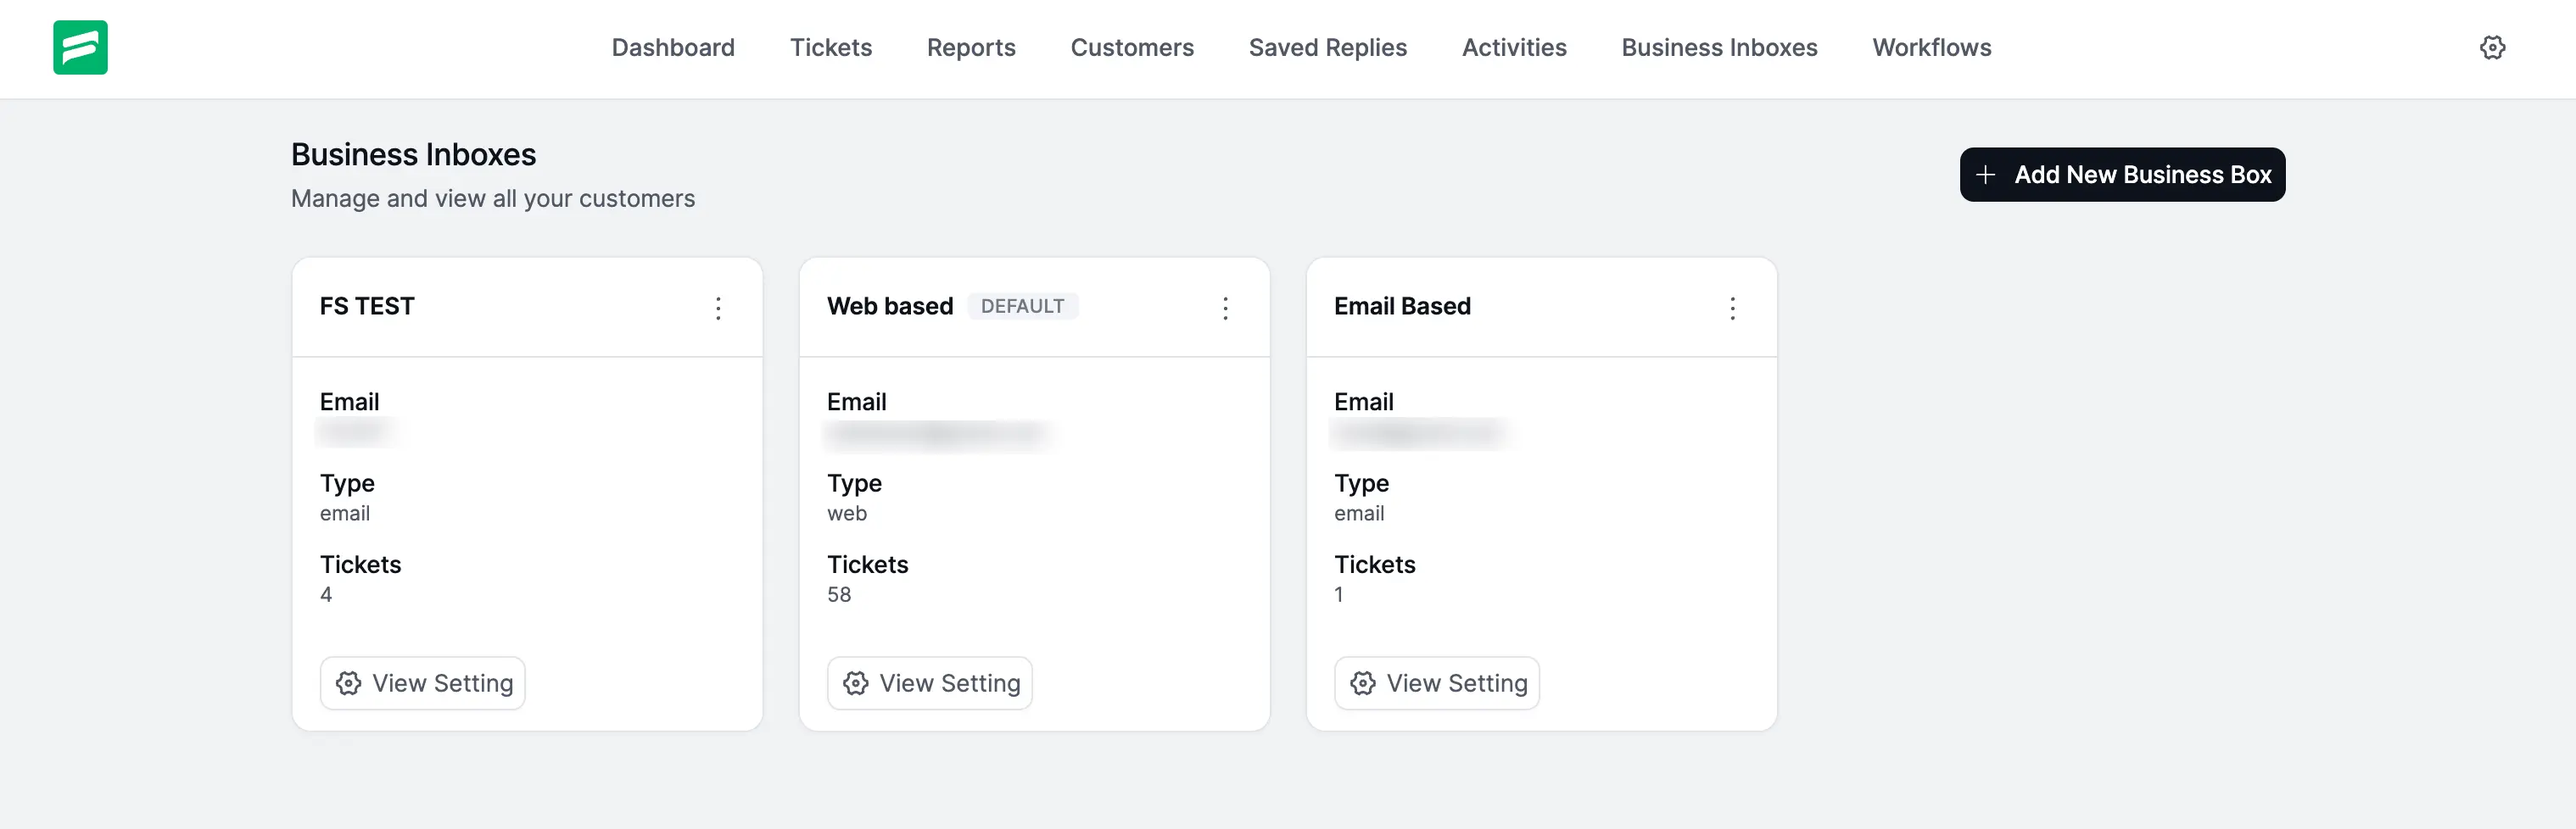
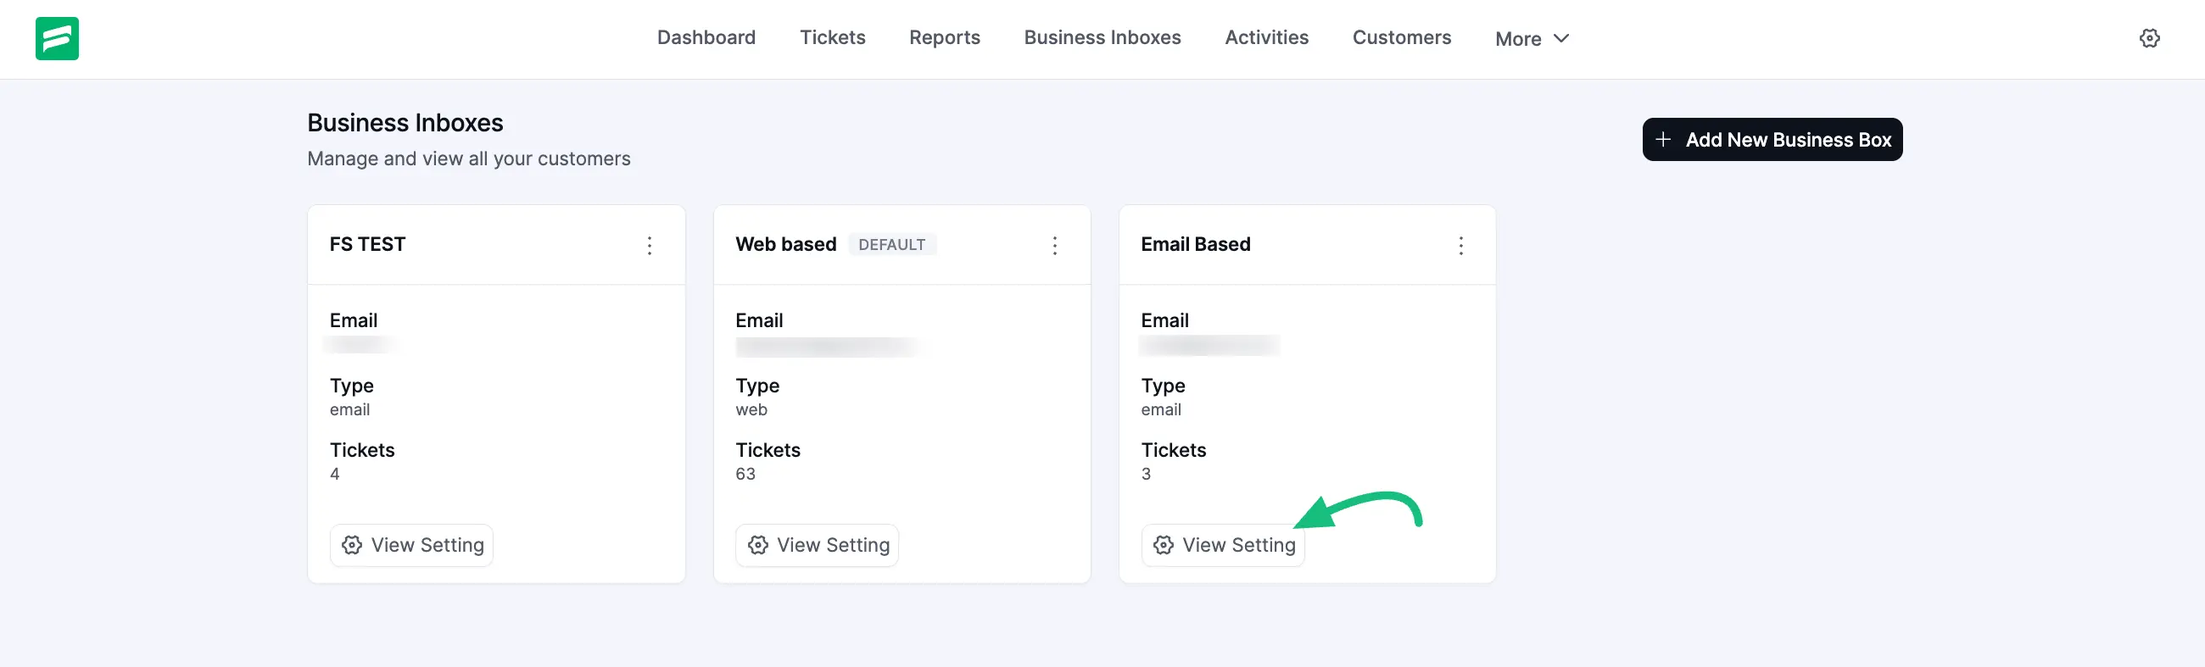
update Managing Email Notifications doc and image

diff --git a/guide/email-notifications/managing-email-notifications.md b/guide/email-notifications/managing-email-notifications.md
@@ -1,10 +1,12 @@
 # Managing Email Notifications
 
-With Fluent Support, you can set up **Email Notifications** that will send automated emails to customers, admins, or support agents based on certain actions such as a new Ticket created, a Ticket replied to by an agent, a ticket closed by an agent, etc. This article will help you through the steps required to learn the whole process.
+With Fluent Support, you can set up **Email Notifications** that will send automated emails to customers, admins, or support agents based on certain actions such as a new Ticket created, a Ticket replied to by an agent, a ticket closed by an agent, etc. 
+
+This article will help you through the steps required to learn the whole process.
 
 ## Set & Customize Your Email Notifications 
 
-From the Fluent Support **Dashboard** , go to **Business Inboxes** , select your desired business inbox, and click on **View Settings**.
+From the Fluent Support **Dashboard** , go to **Business Inboxes** , select your desired business inbox, and click on the **View Settings** button.
 
 ![Open the settings of  the desired business inbox](/guide/public/images/email-notifications/managing-email-notifications/email-notification-1.webp)
 
